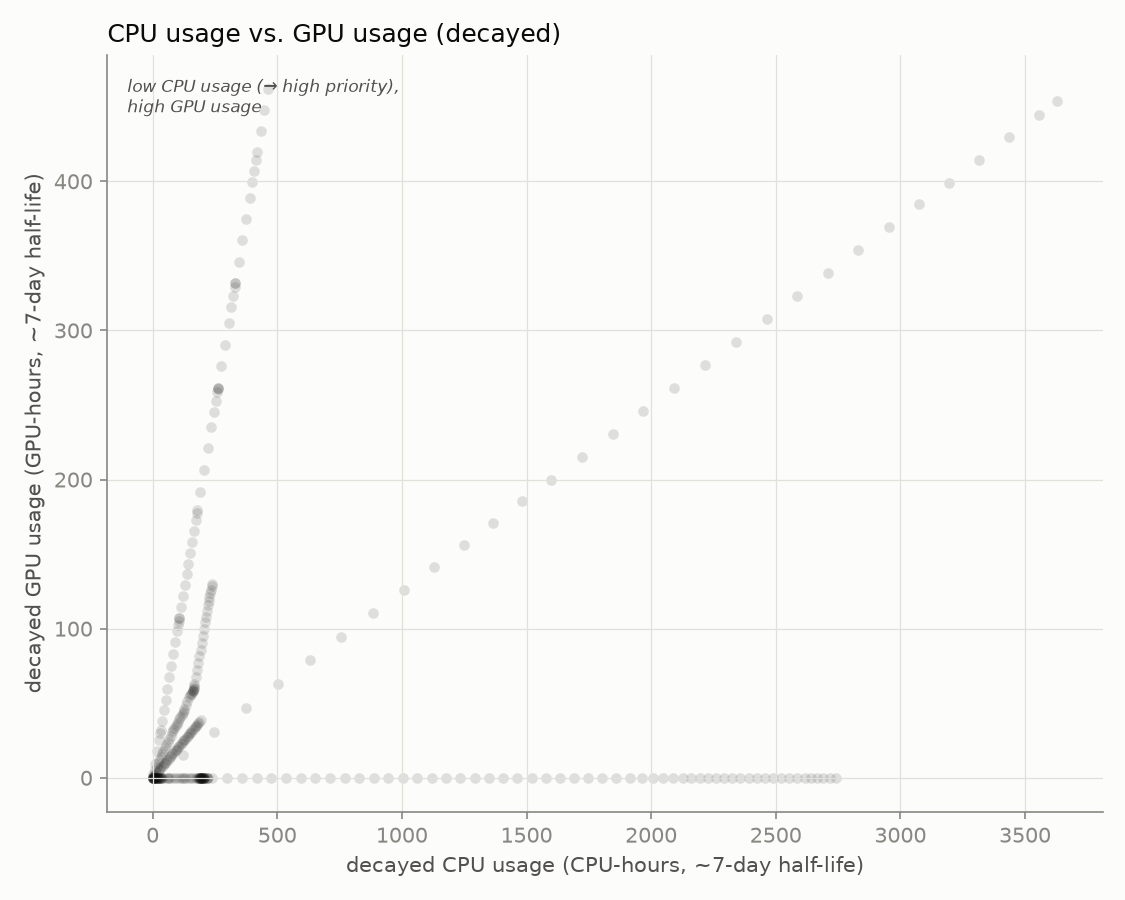
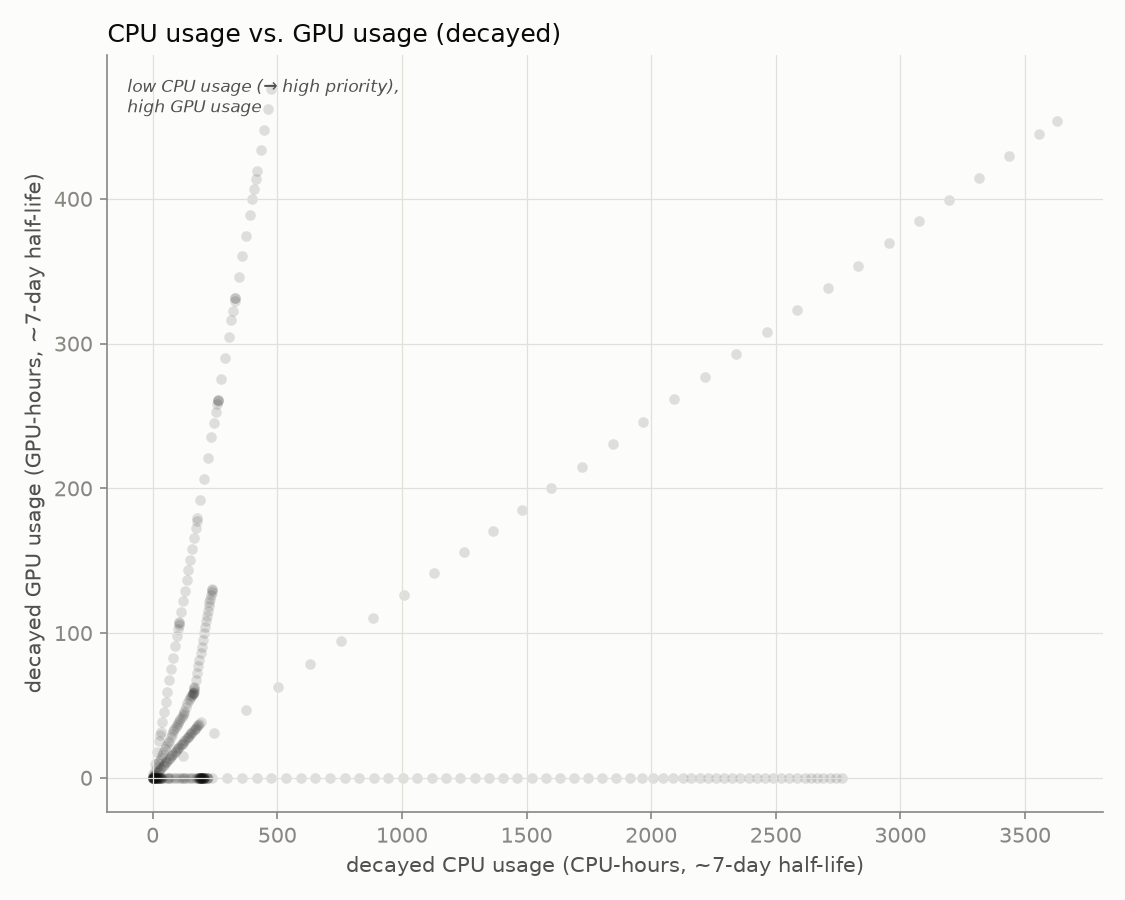
update 2026-08-06T19:30:01-07:00

diff --git a/README.md b/README.md
@@ -2,8 +2,8 @@
 
 Automated GPU/CPU/queue utilization tracker for `hopper.cluster`, updated every 30 minutes by cron. Usernames are anonymized to a stable per-account pseudonym; lab names are real.
 
-Last updated: 2026-08-06T19:00:17-07:00
-Samples: 58 queue snapshots, 58 GPU snapshots
+Last updated: 2026-08-06T19:30:18-07:00
+Samples: 59 queue snapshots, 59 GPU snapshots
 
 ## Resources
 
@@ -16,23 +16,23 @@ Samples: 58 queue snapshots, 58 GPU snapshots
 
 ## Headline
 
-- **64.9%** of the cluster's 60 GPUs allocated, averaged across all samples
-- **43.2%** average `nvidia-smi` utilization *when* a GPU is allocated to a job
-- **83.3%** average cgroup CPU utilization *when* a CPU is allocated to a job
+- **64.7%** of the cluster's 60 GPUs allocated, averaged across all samples
+- **42.9%** average `nvidia-smi` utilization *when* a GPU is allocated to a job
+- **83.5%** average cgroup CPU utilization *when* a CPU is allocated to a job
 
 ## Per lab / per user
 
 <table>
 <tr><th>Lab</th><th>User</th><th align='right'>GPU-hours allocated</th><th align='right'>CPU-hours allocated</th><th align='right'>GPU utilization</th></tr>
-<tr style='background-color:#fbebf1'><td>zhuang-lab</td><td>user-0db9ced0</td><td align='right'>486.0</td><td align='right'>486.0</td><td align='right'>51%</td></tr>
+<tr style='background-color:#fbebf1'><td>zhuang-lab</td><td>user-0db9ced0</td><td align='right'>501.0</td><td align='right'>501.0</td><td align='right'>50%</td></tr>
 <tr style='background-color:#d8efef'><td>witter-lab</td><td>user-d58f5a15</td><td align='right'>467.5</td><td align='right'>3740.0</td><td align='right'>9%</td></tr>
-<tr style='background-color:#d8efef'><td>witter-lab</td><td>user-554c620c</td><td align='right'>136.5</td><td align='right'>254.0</td><td align='right'>69%</td></tr>
+<tr style='background-color:#d8efef'><td>witter-lab</td><td>user-554c620c</td><td align='right'>137.5</td><td align='right'>255.5</td><td align='right'>69%</td></tr>
 <tr style='background-color:#fcf0d8'><td>nerenberg-lab</td><td>user-6bb5f332</td><td align='right'>40.0</td><td align='right'>200.0</td><td align='right'>71%</td></tr>
 <tr style='background-color:#fce8e0'><td>ibarragarciapadilla-lab</td><td>user-eec7ffae</td><td align='right'>0.0</td><td align='right'>234.5</td><td align='right'>—</td></tr>
-<tr style='background-color:#dfeaf8'><td>enkavi-lab</td><td>user-c21bdaa4</td><td align='right'>0.0</td><td align='right'>38.0</td><td align='right'>—</td></tr>
-<tr style='background-color:#fce8e0'><td>ibarragarciapadilla-lab</td><td>user-3cfc41a3</td><td align='right'>0.0</td><td align='right'>2925.0</td><td align='right'>—</td></tr>
 <tr style='background-color:#fcf0d8'><td>nerenberg-lab</td><td>user-b12dc074</td><td align='right'>0.0</td><td align='right'>16.0</td><td align='right'>—</td></tr>
-<tr style='background-color:#fce8e0'><td>ibarragarciapadilla-lab</td><td>user-dad71a72</td><td align='right'>0.0</td><td align='right'>4.0</td><td align='right'>—</td></tr>
+<tr style='background-color:#fce8e0'><td>ibarragarciapadilla-lab</td><td>user-dad71a72</td><td align='right'>0.0</td><td align='right'>4.5</td><td align='right'>—</td></tr>
+<tr style='background-color:#dfeaf8'><td>enkavi-lab</td><td>user-c21bdaa4</td><td align='right'>0.0</td><td align='right'>38.0</td><td align='right'>—</td></tr>
+<tr style='background-color:#fce8e0'><td>ibarragarciapadilla-lab</td><td>user-3cfc41a3</td><td align='right'>0.0</td><td align='right'>2955.0</td><td align='right'>—</td></tr>
 </table>
 
 ## Usage over time
@@ -43,7 +43,7 @@ Samples: 58 queue snapshots, 58 GPU snapshots
 
 Solid = utilized by lab, hatched = allocated but idle, gray = usage not traceable to a lab, dashed line = cluster capacity.
 
-Attribution combines `nvidia-smi`'s process listing with Slurm's GPU-to-job binding record; the latter caught **1714** readings the former missed.
+Attribution combines `nvidia-smi`'s process listing with Slurm's GPU-to-job binding record; the latter caught **1737** readings the former missed.
 
 ## Queue
 
@@ -55,13 +55,13 @@ Attribution combines `nvidia-smi`'s process listing with Slurm's GPU-to-job bind
 
 ![CPU usage vs GPU usage, decayed](assets/cpu_gpu_usage.png)
 
-One point per user per snapshot (n=317), usage decayed on Slurm's ~7-day fairshare half-life.
+One point per user per snapshot (n=321), usage decayed on Slurm's ~7-day fairshare half-life.
 
 **GPU usage doesn't count toward priority on this cluster** (`TRESBillingWeights`/`PriorityWeightTRES` unset) - watch the **upper-left**: low CPU usage (high priority) with high GPU usage.
 
 ## Recommendations
 
-1. **Weight GPU usage in fairshare.** `TRESBillingWeights` and `PriorityWeightTRES` are both unset right now, so Slurm's fairshare score only sees CPU-seconds - a job holding 4 idle L40S GPUs costs nothing in priority as long as it isn't also holding CPUs. That's the exact failure mode the scatter above is built to catch (upper-left: low CPU usage, high GPU usage). Fix: `scontrol update partition=main TRESBillingWeights=CPU=1.0,GRES/gpu=<weight>` (or set `PriorityWeightTRES` cluster-wide), then `scontrol reconfigure` - a full `slurmctld` restart also works but drops in-flight priority state. A reasonable starting point for `<weight>` is the CPUs-per-GPU ratio on a GPU node (128 CPUs / 4 GPUs = 32), so one GPU costs as much fairshare as the CPU share it displaces; tune from there against next week's headline numbers (64.9% allocated, 43.2% utilized when allocated, as of this snapshot). The weight value itself is a policy call - loop in whoever owns cluster allocation policy before changing it.
+1. **Weight GPU usage in fairshare.** `TRESBillingWeights` and `PriorityWeightTRES` are both unset right now, so Slurm's fairshare score only sees CPU-seconds - a job holding 4 idle L40S GPUs costs nothing in priority as long as it isn't also holding CPUs. That's the exact failure mode the scatter above is built to catch (upper-left: low CPU usage, high GPU usage). Fix: `scontrol update partition=main TRESBillingWeights=CPU=1.0,GRES/gpu=<weight>` (or set `PriorityWeightTRES` cluster-wide), then `scontrol reconfigure` - a full `slurmctld` restart also works but drops in-flight priority state. A reasonable starting point for `<weight>` is the CPUs-per-GPU ratio on a GPU node (128 CPUs / 4 GPUs = 32), so one GPU costs as much fairshare as the CPU share it displaces; tune from there against next week's headline numbers (64.7% allocated, 42.9% utilized when allocated, as of this snapshot). The weight value itself is a policy call - loop in whoever owns cluster allocation policy before changing it.
 
 2. **Escalate on sustained low utilization** (see table and scatter above). Right now the clearest candidate is `user-d58f5a15` in `witter-lab`: 467.5 GPU-hours allocated at 9% average utilization, i.e. roughly 424 GPU-hours that sat idle instead of going to someone in the queue. Turning that into an automated escalation needs two decisions made up front: a utilization threshold (something like under 20% mean utilization over at least 50 allocated GPU-hours is a defensible starting bar - loose enough to skip short debugging runs, tight enough to catch parked allocations) and a grace period (how many consecutive low-utilization snapshots before it counts as "sustained" rather than a momentary lull between batches). Once those are set, the mechanism can be either soft (a bot that reads `data/gpu_samples.jsonl` and reminds the user/lab by email or Slack) or hard (a Slurm-side QOS penalty, e.g. `sacctmgr modify qos <qos> set Priority-=<n>`, applied after N consecutive offending snapshots). Neither exists yet - today the table and scatter above are a read-only signal, not an enforced policy.
 
